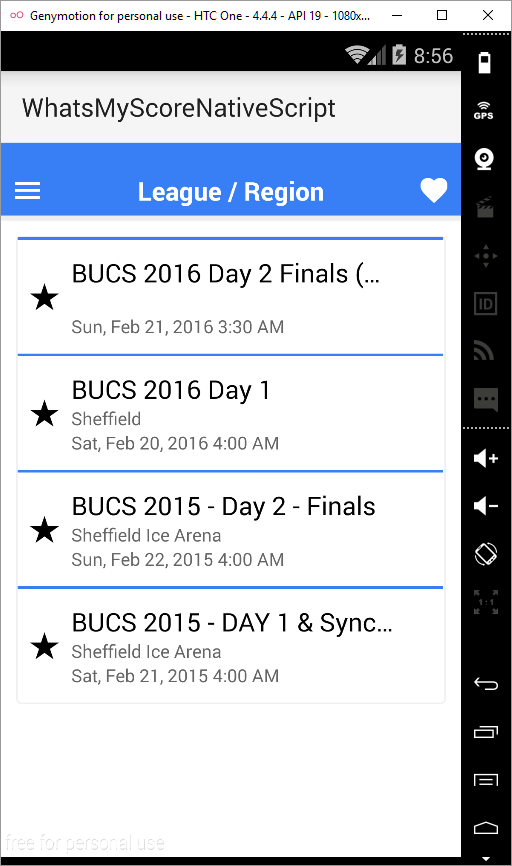
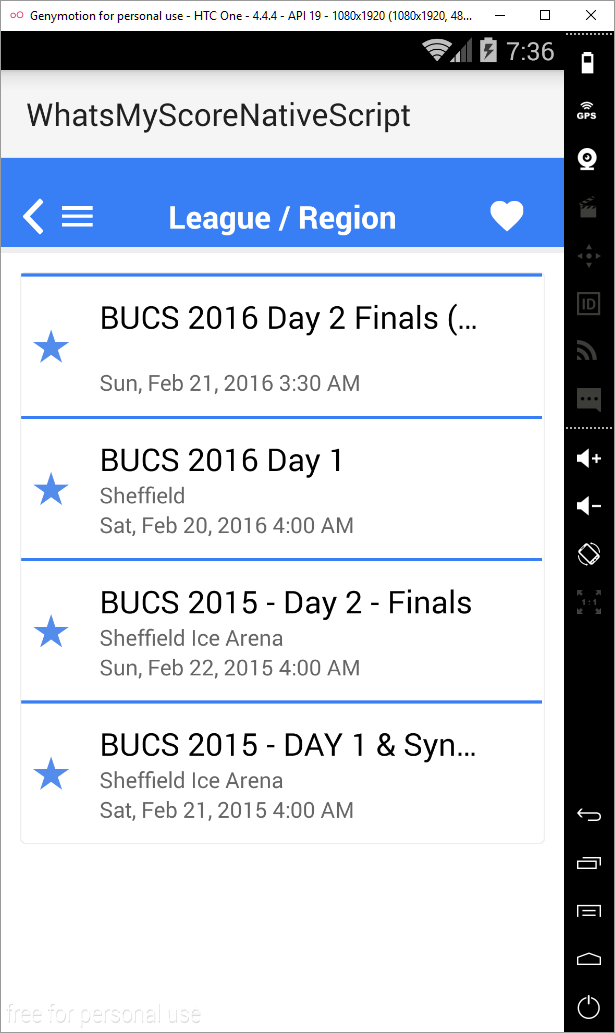
styling updates

Changed region(s): [[0.0, 0.0, 1.0, 1.0]]

diff --git a/app/app.css b/app/app.css
@@ -1,1 +1,2 @@
-.icon{font-size:20;margin:3}.ion-icon{font-family:"Ionicons";font-size:26;margin-right:12}.fa-icon{font-family:"FontAwesome"}.material-icon{font-family:'Material-Design-Iconic-Font'}.inset{padding:12}.note{font-size:14;color:#666666}Page{background-color:white;font-size:20;padding:0}label{font-size:20;color:black}button{font-size:20;background-color:#387ef5;color:#FFF}.nx-header-outer{background-color:#4d75b8;color:#ffffff}.nx-header-inner{padding:12;padding-top:8;padding-bottom:8}.nx-header{font-size:26;background-color:#4d75b8;color:#FFF}.nx-header-title{font-weight:bold;color:#FFF}.nx-list{margin-bottom:12}.nx-item{border-bottom-width:1;border-color:#c8c7cc;border-style:solid;padding-top:12;padding-bottom:12}.item-button{font-size:20;background-color:#c8c7cc;color:#FFF}.nx-nav-inner{margin-bottom:6;margin-top:24}.nx-nav{background-color:#387ef5}.nx-nav .ion-icon{color:#FFF}.nx-nav Label{color:#FFF}.nav-title{color:#FFF}.sidebar{border-right-width:1;border-color:#c8c7cc;border-style:solid;padding-top:12;padding-bottom:12}
+@minor : #548CEC
+@primary-background : @primary;.icon{font-size:20;margin:3}.ion-icon{font-family:"Ionicons";font-size:26;margin-right:12;color:#4d75b8}.fa-icon{font-family:"FontAwesome"}.material-icon{font-family:'Material-Design-Iconic-Font'}.inset{padding:12}.note{font-size:14;color:#666666}Page{background-color:white;font-size:20;padding:0}label{font-size:20;color:black}button{font-size:20;background-color:#387ef5;color:#FFF}.nx-header{padding:12;padding-top:8;padding-bottom:8;border-radius:4;font-size:26;background-color:#4d75b8;color:#FFF}.nx-header-ext{background-color:#4d75b8}.nx-header-title{font-weight:bold;color:#FFF}.nx-list{margin-bottom:12}.nx-item{border-bottom-width:1;border-color:#c8c7cc;border-style:solid;padding-top:12;padding-bottom:12}.item-button{font-size:20;background-color:#c8c7cc;color:#FFF}.nx-nav-inner{margin-bottom:6;margin-top:24}.nx-nav{background-color:#387ef5}.nx-nav .ion-icon{color:#FFF}.nx-nav Label{color:#FFF}.nav-title{color:#FFF}.sidebar{border-right-width:1;border-color:#c8c7cc;border-style:solid;padding-top:12;padding-bottom:12}

diff --git a/app/controls/list/list.ts b/app/controls/list/list.ts
@@ -38,7 +38,7 @@ export class NxList {
     
     public padding : boolean = false;
     public children : Array<NxListItem>;
-    
+    public headers : Array<NxHeader>;
     // public HasPadding(){
     //     if(this.padding){
     //         return "padding";
@@ -69,30 +69,24 @@ export class NxList {
         //this.logger.Notify("ngAfterViewChecked");
     }
     
+    @ContentChildren(NxHeader)
+    set _setHeader(items : any) {
+        this.headers = items.toArray();
+        
+        // if(this.headers.length > 0){
+        //     let top = this.headers[0];
+        //     top.getNativeElement().borderRadius = 4;
+            
+        //     return;
+        // }
+    }
     //this should give me a list of shadow elements in ng-content
     @ContentChildren(NxListItem)
     set _listItems(items: any){
         this.logger.Notify("Setting list item nodes");
         this.children  = items.toArray();
         this.logger.Notify("" + this.children.length);
-        
-        // this.children.forEach((row)=>{
-        //     
-        //     var s = row.itemReady.subscribe((item) => {
-        //         var width = item.width;
-        //         item.translateX + width;
-        //         item.opacity = 0;
-        //         
-        //         item.animate({
-        //             duration: 5000,
-        //             opacity: 1,
-        //             translate: { x: 0, y: 0}
-        //         });
-        //         
-        //     });
-        //     
-        // });
-        
+                
         var anyReady = this.children.map((item) => item.itemReady);
         var anySelected = this.children.map((item) => item.itemSelected);
                 

diff --git a/app/pages/startPage/startPage.html b/app/pages/startPage/startPage.html
@@ -12,30 +12,24 @@
         <StackLayout class="inset">
             <nx-list>
                 <nx-header item-top>
-                    <label text="START" class="nx-header-title"></label>
+                    <label [text]="'Start' | Title" class="nx-header-title"></label>
                 </nx-header>
-                <nx-item (tap)="loadRegions($event)">
+                <nx-item [nxRoute]="['Regions']">
                     <ion-icon item-left icon="ion-map"></ion-icon>
                     
-
                     <label text="Leagues & Regions"></label>
                     <label class="note" text="BUCS, SUTL ..."></label>
 
-
-                    <ion-icon item-right icon="ion-chevron-right"></ion-icon>
-                </nx-item>
-                <nx-item (tap)="incomplete($event)">
-                    <ion-icon item-left icon="ion-map"></ion-icon>
-                    <label text="Map"></label>
                     <ion-icon item-right icon="ion-chevron-right"></ion-icon>
                 </nx-item>
             </nx-list>
 
             <nx-list>
                 <nx-header item-top>
-                    <label text="SEARCH" class="nx-header-title"></label>
+                    <label [text]="'Search' | Title" class="nx-header-title"></label>
                 </nx-header>
                 <nx-item (tap)="incomplete($event)">
+                    <ion-icon item-left icon="ion-calendar"></ion-icon>
                     <label text="Competitions"></label>
                     <ion-icon item-right icon="ion-search"></ion-icon>
                 </nx-item>

diff --git a/app/controls/list/header.ts b/app/controls/list/header.ts
@@ -1,5 +1,5 @@
 import { Control } from "../../decorators/control";
-import { Input, Output, EventEmitter, ContentChildren, ViewChild } from "angular2/core";
+import { ElementRef, Input, Output, EventEmitter, ContentChildren, ViewChild } from "angular2/core";
 import { Logger } from "../../providers/logger";
 import { StackLayout, Button } from "ui";
 
@@ -8,21 +8,35 @@ import { NxListItem } from "./list-item";
 @Control({
     selector:"nx-header",
     template: `
-    
-        <StackLayout class="nx-header-outer">
-            <StackLayout class="nx-header-inner">
-                <ng-content></ng-content>
-            </StackLayout>
+        <StackLayout #item class="nx-header">
+            <ng-content></ng-content>
         </StackLayout>
-
+        <Border borderWidth="2" class="nx-header-ext" style="margin-top:-4">
+        </Border>
+        
     `,
     providers: [],
     directives:[ NxListItem ]
 })
 export class NxHeader
 {
+    private container: ElementRef;
+    
     constructor(private logger: Logger){
         this.logger.Notify("add header");
+    }
+    
+    @ViewChild('item') 
+    set _setHeaderElement(item: ElementRef){
+        this.container = item;
+    }
+    
+    public getNativeElement() : StackLayout {
+        if(!this.container){ return ; }
+        
+        let stackLayout: StackLayout = this.container.nativeElement;
+        
+        return stackLayout;
     }
 }
 

diff --git a/app/controls/list/list-item.ts b/app/controls/list/list-item.ts
@@ -11,8 +11,8 @@ import {Router, Location, Instruction} from 'angular2/router';
     //https://github.com/NativeScript/NativeScript/issues/859 -- cant get per side border yet. 
     template: `
     <StackLayout #item style="opacity:1">
-        <Border height="2" borderRadius="0" borderWidth="1" borderColor="#387ef5"></Border>
-        <GridLayout  columns="42, *, 42" rows="auto" class="nx-item" (tap)="tapWrapper($event)">
+        <Border height="2" borderRadius="0" borderWidth="1" borderColor="#548CEC"></Border>
+        <GridLayout  columns="50, *, 42" rows="auto" class="nx-item" (tap)="tapWrapper($event)">
             <StackLayout col="0" class="icon-column" style="vertical-align:center;horizontal-align:center" >
                 <ng-content select="[item-left]"></ng-content>
             </StackLayout>
@@ -34,7 +34,7 @@ export class NxListItem {
     private container: ElementRef;
     
     @ViewChild('item') 
-    set _listItems(item: ElementRef){
+    set _setListElement(item: ElementRef){
         this.container = item;
         this.itemReady.next(this);
     }

diff --git a/app/app.less b/app/app.less
@@ -1,7 +1,8 @@
 /* colours */
 
-@header-baclground: #0c60ee;
+@header-baclground: #4d75b8;
 @primary : #387ef5;
+@minor : #548CEC
 @primary-background : @primary;
 @primary-text: #FFF;
 @default-padding : 12;
@@ -29,6 +30,7 @@
     /* cheat sheet http://ionicons.com/cheatsheet.html */
     font-size: @font-size-h1 ;
     margin-right: @default-margin;
+    color: @header-baclground;
 }
 
 .fa-icon {
@@ -73,21 +75,27 @@ button {
 }
 
 .nx-header-outer {
-    background-color:#4d75b8;color:#ffffff;
+    
 }
 
 .nx-header-inner {
-    padding: @default-padding;
-    padding-top: @default-padding-top-bottom;
-    padding-bottom: @default-padding-top-bottom;
+    
 }
 
 
 .nx-header {
+    padding: @default-padding;
+    padding-top: @default-padding-top-bottom;
+    padding-bottom: @default-padding-top-bottom;
+    border-radius: 4;
     font-size: @font-size-h1;    
     background-color:#4d75b8;
     color:@primary-text;
 }
+.nx-header-ext {
+    background-color:#4d75b8;
+}
+
 .nx-header-title {
     font-weight: bold;
     color:@primary-text;

diff --git a/app/controls/icons/ion-icon.ts b/app/controls/icons/ion-icon.ts
@@ -81,11 +81,10 @@ export class IonIcon {
                 return "\uf2c7";
             case "ion-android-add-circle":
                 return "\uf359";
-            case "ion-ios-star":
-                return "\uf4b3";
+            case "ion-calendar":
+                return "\uf117";
             // .. 
-            case "ion-ios-people" : 
-                return "\uf47c";
+            
             case "ion-map" : 
                 return "\uf203";
             case "ion-search" : 
@@ -100,6 +99,15 @@ export class IonIcon {
                 return "\uf388";
             case "ion-android-menu":
                 return "\uf394";
+                
+            /*
+                ios 
+             */
+            case "ion-ios-star":
+                return "\uf4b3";
+            case "ion-ios-people" : 
+                return "\uf47c";
+            
             default: 
                 //ion-alert
                 return key;

diff --git a/app/pages/regionsPage/regionsPage.html b/app/pages/regionsPage/regionsPage.html
@@ -9,7 +9,7 @@
     
     <ScrollView>
         <StackLayout class="inset">
-            <nx-card *ngFor="#region of list">
+            <nx-list *ngFor="#region of list">
                 <nx-header>
                     <Label [text]='region.Name' class="nx-header-title"></Label>
                 </nx-header>
@@ -24,7 +24,7 @@
                     <Label [text]='region.CompetitionCount + " Competitions"'></Label>
                     <ion-icon item-right icon="ion-chevron-right"></ion-icon>
                 </nx-item>
-            </nx-card>
+            </nx-list>
         </StackLayout>
     </ScrollView>
 </nx-drawer>
